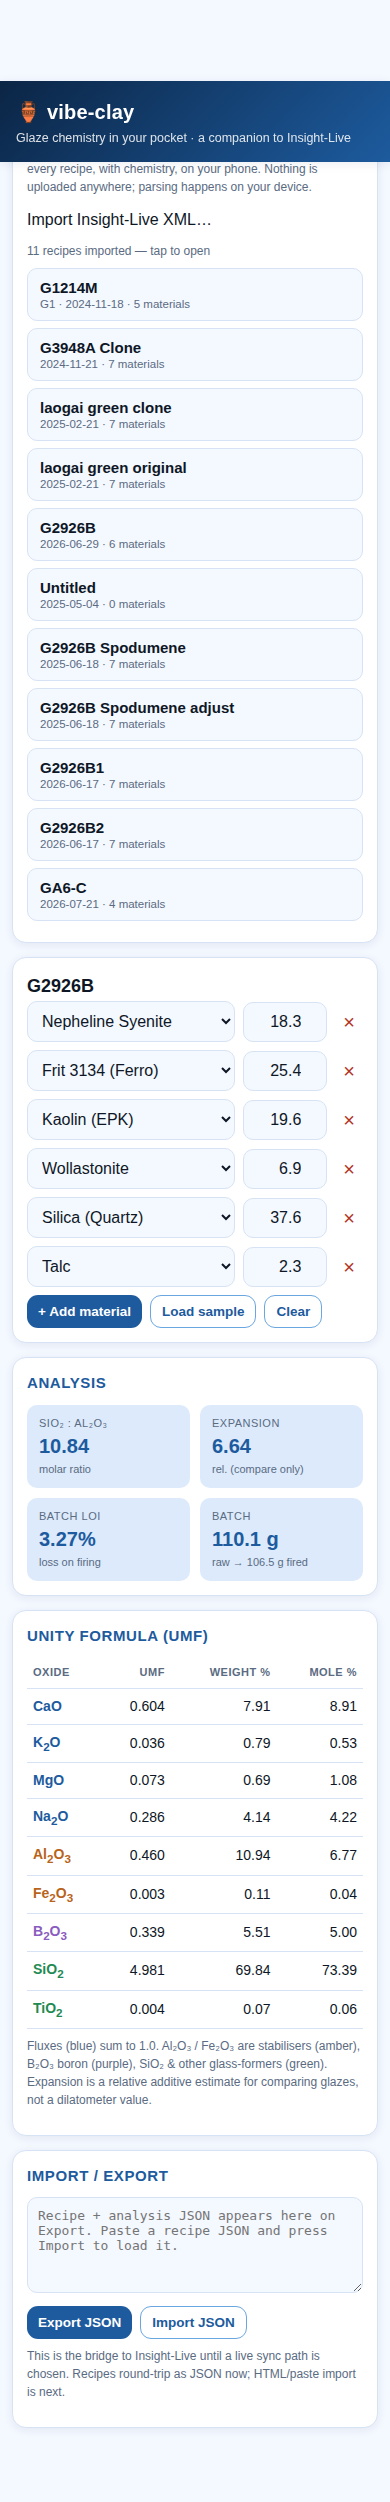
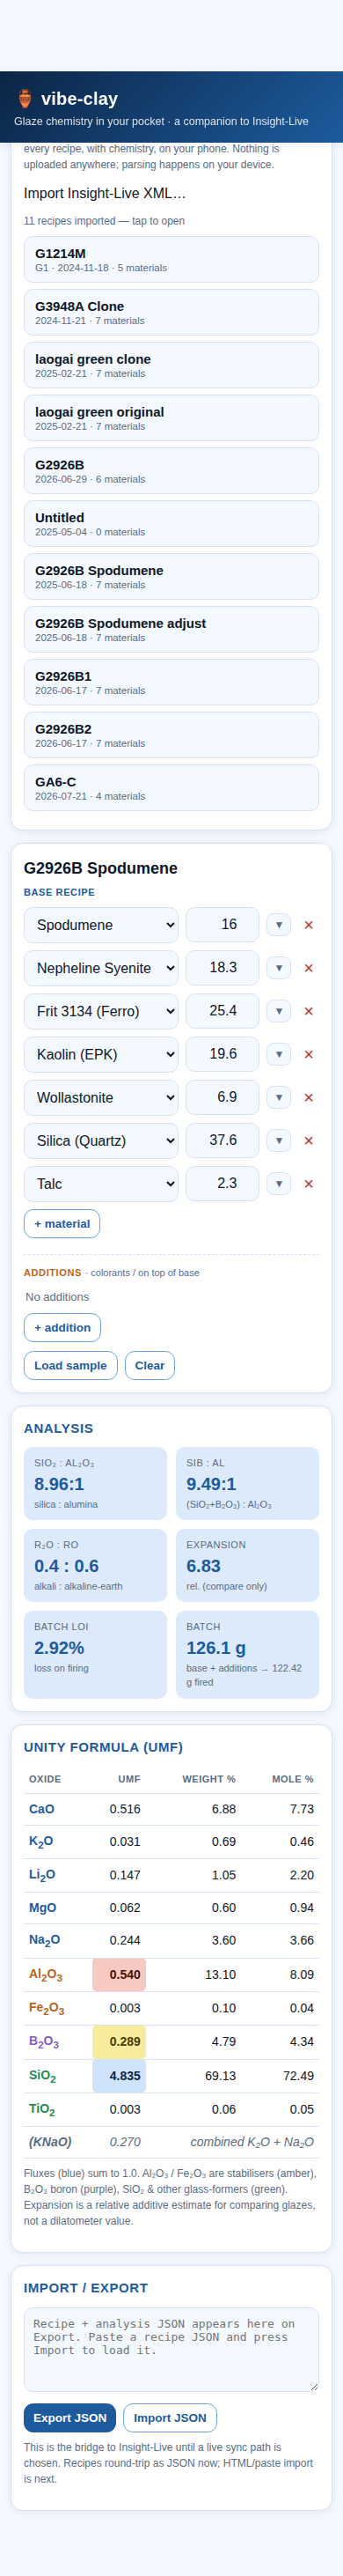
Insight-Live analysis parity: base/additions, SiB:Al + R2O:RO + KNaO, oxide highlighting
Matches the Preview-of-Recipe view from Insight-Live:
- Base recipe vs Additions (colorants on top) as separate groups with a per-line
  toggle and separate batch totals (baseGrams/additionGrams).
- New ratios: SiB:Al ((SiO2+B2O3):Al2O3), R2O:RO (alkali:alkaline-earth flux
  split), and the combined KNaO line.
- UMF table highlights the structural trio (SiO2 blue, Al2O3 red, B2O3 yellow).
- Lowered Li2O thermal-expansion coefficient (27 -> 6.7); lithium is a
  low-expansion flux, which brings the estimate in line with Insight-Live.

Validated against real Insight-Live screenshots: G2926B Spodumene matches its
UMF, KNaO (0.27) and R2O:RO (0.4:0.6) essentially exactly.

Claude-Session: https://claude.ai/code/session_01VN9AZyVo9rnhvmrXgoLfdB

diff --git a/js/app.js b/js/app.js
@@ -27,10 +27,11 @@ function loadSample() {
   state.recipe = {
     name: 'Leadless Gloss (sample)',
     lines: [
-      { material: 'Custer Feldspar (Potash)', amount: 40 },
-      { material: 'Silica (Quartz)', amount: 20 },
-      { material: 'Whiting (Calcium Carbonate)', amount: 20 },
-      { material: 'Kaolin (EPK)', amount: 20 },
+      { material: 'Custer Feldspar (Potash)', amount: 40, additive: false },
+      { material: 'Silica (Quartz)', amount: 20, additive: false },
+      { material: 'Whiting (Calcium Carbonate)', amount: 20, additive: false },
+      { material: 'Kaolin (EPK)', amount: 20, additive: false },
+      { material: 'Red Iron Oxide', amount: 2, additive: true },
     ],
   };
 }
@@ -47,53 +48,87 @@ function render() {
   renderAnalysis();
 }
 
-function renderLines() {
-  const wrap = $('#lines');
-  wrap.innerHTML = '';
-  state.recipe.lines.forEach((line, i) => {
-    const div = document.createElement('div');
-    div.className = 'row';
-    div.innerHTML = `
+function addLine(additive) {
+  state.recipe.lines.push({ material: state.db.materials[0].name, amount: 0, additive });
+  renderLines();
+  renderAnalysis();
+}
+
+function rowHtml(i) {
+  const line = state.recipe.lines[i];
+  const togTitle = line.additive ? 'Move up to base recipe' : 'Move down to additions';
+  return `<div class="row">
       <select class="mat" data-i="${i}" aria-label="Material">${materialOptions(line.material)}</select>
       <input class="amt" data-i="${i}" type="number" inputmode="decimal" min="0" step="0.1"
              value="${line.amount}" aria-label="Amount in grams" />
-      <button class="del" data-i="${i}" title="Remove" aria-label="Remove line">×</button>`;
-    wrap.appendChild(div);
-  });
+      <button class="tog" data-i="${i}" title="${togTitle}" aria-label="${togTitle}">${line.additive ? '▲' : '▼'}</button>
+      <button class="del" data-i="${i}" title="Remove" aria-label="Remove line">×</button>
+    </div>`;
+}
+
+function renderLines() {
+  const wrap = $('#lines');
+  const lines = state.recipe.lines;
+  const baseIdx = lines.map((_, i) => i).filter(i => !lines[i].additive);
+  const addIdx = lines.map((_, i) => i).filter(i => lines[i].additive);
+
+  wrap.innerHTML = `
+    <div class="grp-label">Base recipe</div>
+    ${baseIdx.map(rowHtml).join('') || '<div class="grp-empty">No base materials yet</div>'}
+    <button class="btn ghost small addbtn" data-add="base">+ material</button>
+    <div class="grp-label add">Additions <span>· colorants / on top of base</span></div>
+    ${addIdx.map(rowHtml).join('') || '<div class="grp-empty">No additions</div>'}
+    <button class="btn ghost small addbtn" data-add="add">+ addition</button>`;
 
   wrap.querySelectorAll('select.mat').forEach(el =>
     el.addEventListener('change', e => { state.recipe.lines[+e.target.dataset.i].material = e.target.value; renderAnalysis(); }));
   wrap.querySelectorAll('input.amt').forEach(el =>
     el.addEventListener('input', e => { state.recipe.lines[+e.target.dataset.i].amount = parseFloat(e.target.value) || 0; renderAnalysis(); }));
+  wrap.querySelectorAll('button.tog').forEach(el =>
+    el.addEventListener('click', e => { const l = state.recipe.lines[+e.currentTarget.dataset.i]; l.additive = !l.additive; renderLines(); renderAnalysis(); }));
   wrap.querySelectorAll('button.del').forEach(el =>
-    el.addEventListener('click', e => { state.recipe.lines.splice(+e.target.dataset.i, 1); renderLines(); renderAnalysis(); }));
+    el.addEventListener('click', e => { state.recipe.lines.splice(+e.currentTarget.dataset.i, 1); renderLines(); renderAnalysis(); }));
+  wrap.querySelectorAll('button.addbtn').forEach(el =>
+    el.addEventListener('click', e => addLine(e.currentTarget.dataset.add === 'add')));
 }
 
 function renderAnalysis() {
   const a = analyzeRecipe(state.recipe.lines, state.idx);
 
-  // Stats grid
-  const exp = a.thermalExpansion == null ? '—' : a.thermalExpansion;
-  const ratio = a.ratios.SiO2_Al2O3 == null ? '—' : a.ratios.SiO2_Al2O3;
+  // Stats grid — the ratios Insight-Live reports
+  const dash = v => (v == null ? '—' : v);
+  const siAl = a.ratios.SiO2_Al2O3;
+  const siBAl = a.ratios.SiB_Al2O3;
+  const split = a.fluxSplit ? `${a.fluxSplit.R2O.toFixed(1)} : ${a.fluxSplit.RO.toFixed(1)}` : '—';
+  const batchLabel = a.additionGrams > 0
+    ? `${a.baseGrams} + ${a.additionGrams} g`
+    : `${a.batchGrams} g`;
   $('#stats').innerHTML = `
-    ${stat('SiO₂ : Al₂O₃', ratio, 'molar ratio')}
-    ${stat('Expansion', exp, 'rel. (compare only)')}
+    ${stat('SiO₂ : Al₂O₃', siAl == null ? '—' : siAl + ':1', 'silica : alumina')}
+    ${stat('SiB : Al', siBAl == null ? '—' : siBAl + ':1', '(SiO₂+B₂O₃) : Al₂O₃')}
+    ${stat('R₂O : RO', split, 'alkali : alkaline-earth')}
+    ${stat('Expansion', dash(a.thermalExpansion), 'rel. (compare only)')}
     ${stat('Batch LOI', a.loiPct + '%', 'loss on firing')}
-    ${stat('Batch', a.batchGrams + ' g', 'raw → ' + a.firedGrams + ' g fired')}`;
+    ${stat('Batch', batchLabel, 'base + additions → ' + a.firedGrams + ' g fired')}`;
 
-  // UMF table
+  // UMF table — highlight the structural trio (SiO₂ blue, Al₂O₃ red, B₂O₃ yellow)
+  const hi = { SiO2: 'hi-si', Al2O3: 'hi-al', B2O3: 'hi-b' };
   const keys = displayOrder(Object.keys(a.oxides));
   const rows = keys.map(ox => {
     const o = a.oxides[ox];
     return `<tr class="g-${o.group}">
       <td>${fmtOxide(ox)}</td>
-      <td>${o.umf.toFixed(3)}</td>
+      <td class="${hi[ox] || ''}">${o.umf.toFixed(3)}</td>
       <td>${o.weightPct.toFixed(2)}</td>
       <td>${o.molePct.toFixed(2)}</td></tr>`;
   }).join('');
+  // KNaO combined-alkali line, shown grouped like Insight-Live
+  const kNaORow = a.ratios.KNaO != null
+    ? `<tr class="knao"><td>(KNaO)</td><td>${a.ratios.KNaO.toFixed(3)}</td><td colspan="2">combined K₂O + Na₂O</td></tr>`
+    : '';
   $('#umf').innerHTML = `
     <thead><tr><th>Oxide</th><th>UMF</th><th>Weight %</th><th>Mole %</th></tr></thead>
-    <tbody>${rows || '<tr><td colspan="4" style="text-align:center;color:var(--muted)">Add materials to see analysis</td></tr>'}</tbody>`;
+    <tbody>${rows ? rows + kNaORow : '<tr><td colspan="4" style="text-align:center;color:var(--muted)">Add materials to see analysis</td></tr>'}</tbody>`;
 
   $('#warn').innerHTML = a.unknownMaterials.length
     ? `<div class="warnbox">Unknown material(s) skipped in chemistry: ${a.unknownMaterials.map(escapeHtml).join(', ')}</div>`
@@ -152,10 +187,6 @@ function wireGlobalButtons() {
     reader.readAsText(file);
   });
   $('#recipeName').addEventListener('input', e => { state.recipe.name = e.target.value; });
-  $('#addLine').addEventListener('click', () => {
-    state.recipe.lines.push({ material: state.db.materials[0].name, amount: 0 });
-    renderLines(); renderAnalysis();
-  });
   $('#sampleBtn').addEventListener('click', () => { loadSample(); render(); });
   $('#clearBtn').addEventListener('click', () => { state.recipe = { name: 'Untitled Recipe', lines: [] }; render(); });
 

diff --git a/js/chemistry.js b/js/chemistry.js
@@ -49,7 +49,7 @@ export const OXIDE_GROUP = {
 // reading. Oxides not listed contribute ~0.
 export const EXPANSION_FACTOR = {
   SiO2: 3.8, Al2O3: 6.3, B2O3: 0.0,
-  Na2O: 39.5, K2O: 46.5, Li2O: 27.0,
+  Na2O: 39.5, K2O: 46.5, Li2O: 6.7,
   CaO: 16.3, MgO: 4.5, BaO: 20.0, SrO: 15.0, ZnO: 7.0, PbO: 10.6,
   Fe2O3: 13.3, TiO2: 8.5, ZrO2: 4.5, SnO2: 6.0, P2O5: 8.0,
 };
@@ -108,7 +108,9 @@ export function buildResolver(db) {
 export function analyzeRecipe(recipe, materialIndex, opts = {}) {
   const oxideGrams = {};     // fired grams of each oxide across the batch
   const unknownMaterials = [];
-  let batchGrams = 0;        // total raw grams batched
+  let batchGrams = 0;        // total raw grams batched (base + additions)
+  let baseGrams = 0;         // base recipe only
+  let additionGrams = 0;     // additions ("added on top") only
   let cost = 0;
   let haveAnyPrice = false;
 
@@ -116,6 +118,7 @@ export function analyzeRecipe(recipe, materialIndex, opts = {}) {
     const amount = Number(line.amount) || 0;
     if (amount <= 0) continue;
     batchGrams += amount;
+    if (line.additive) additionGrams += amount; else baseGrams += amount;
 
     const mat = materialIndex.get(line.material);
     if (!mat) { unknownMaterials.push(line.material); continue; }
@@ -165,18 +168,37 @@ export function analyzeRecipe(recipe, materialIndex, opts = {}) {
     };
   }
 
-  // Headline ratios.
+  // Headline ratios (matching what Insight-Live reports).
   const siMol = oxideMoles.SiO2 || 0;
   const alMol = oxideMoles.Al2O3 || 0;
+  const bMol = oxideMoles.B2O3 || 0;
   const siAlRatio = alMol ? round(siMol / alMol, 2) : null;
+  const siBAlRatio = alMol ? round((siMol + bMol) / alMol, 2) : null;
+
+  // R2O:RO — split the flux unity into alkali (R2O: Na2O K2O Li2O) vs alkaline
+  // earth (RO: CaO MgO BaO SrO ZnO PbO), normalised to sum to 1.0.
+  const R2O_SET = new Set(['Na2O', 'K2O', 'Li2O']);
+  let r2oMol = 0, roMol = 0;
+  for (const [ox, mol] of Object.entries(oxideMoles)) {
+    if (OXIDE_GROUP[ox] !== 'flux') continue;
+    if (R2O_SET.has(ox)) r2oMol += mol; else roMol += mol;
+  }
+  const fluxSplit = fluxMoles
+    ? { R2O: round(r2oMol / fluxMoles, 2), RO: round(roMol / fluxMoles, 2) }
+    : null;
+  // KNaO — combined K2O+Na2O flux value (Insight shows this grouped line).
+  const kNaO = fluxMoles ? round(((oxideMoles.K2O || 0) + (oxideMoles.Na2O || 0)) / fluxMoles, 2) : null;
 
   return {
     batchGrams: round(batchGrams, 2),
+    baseGrams: round(baseGrams, 2),
+    additionGrams: round(additionGrams, 2),
     firedGrams: round(totalFiredGrams, 2),
     loiPct: batchGrams ? round(((batchGrams - totalFiredGrams) / batchGrams) * 100, 2) : 0,
     fluxUnityMoles: round(fluxMoles, 5),
     oxides,
-    ratios: { SiO2_Al2O3: siAlRatio },
+    ratios: { SiO2_Al2O3: siAlRatio, SiB_Al2O3: siBAlRatio, KNaO: kNaO },
+    fluxSplit,
     thermalExpansion: estimateExpansion(oxideMoles),
     cost: haveAnyPrice ? {
       total: round(cost, 2),

diff --git a/css/styles.css b/css/styles.css
@@ -66,8 +66,19 @@ main { max-width: 720px; margin: 0 auto; padding: 14px 12px 60px; }
 .row .amt { width: 84px; text-align: right; }
 .row .del {
   border: none; background: transparent; color: var(--danger);
-  font-size: 20px; padding: 4px 8px; cursor: pointer; line-height: 1;
+  font-size: 20px; padding: 4px 6px; cursor: pointer; line-height: 1;
 }
+.row .tog {
+  border: 1px solid var(--line); background: var(--bg); color: var(--muted);
+  font-size: 12px; padding: 6px 7px; cursor: pointer; line-height: 1; border-radius: 8px;
+}
+
+.grp-label { font-size: 11px; text-transform: uppercase; letter-spacing: 0.6px; color: var(--blue-500); font-weight: 700; margin: 4px 0 8px; }
+.grp-label.add { color: var(--warn); margin-top: 14px; border-top: 1px dashed var(--line); padding-top: 12px; }
+.grp-label span { text-transform: none; letter-spacing: 0; font-weight: 400; color: var(--muted); }
+@media (prefers-color-scheme: dark) { .grp-label { color: var(--blue-300); } }
+.grp-empty { font-size: 13px; color: var(--muted); padding: 2px 2px 8px; }
+.addbtn { margin-bottom: 4px; }
 
 button.btn {
   font-size: 15px; font-weight: 600; padding: 11px 14px; border: none;
@@ -87,6 +98,12 @@ tr.g-flux td:first-child { color: var(--blue-500); font-weight: 600; }
 tr.g-stabiliser td:first-child { color: var(--warn); font-weight: 600; }
 tr.g-boron td:first-child { color: #8a5cc0; font-weight: 600; }
 tr.g-glass td:first-child { color: var(--ok); font-weight: 600; }
+/* Structural-trio highlight on the UMF value, matching Insight-Live */
+td.hi-si { background: #cfe3fb; color: #0b2545; font-weight: 700; border-radius: 5px; }
+td.hi-al { background: #f7c9c2; color: #4a0f06; font-weight: 700; border-radius: 5px; }
+td.hi-b  { background: #f7ec9c; color: #4a3d06; font-weight: 700; border-radius: 5px; }
+tr.knao td { color: var(--muted); font-style: italic; border-bottom: 1px solid var(--line); }
+tr.knao td:first-child { font-weight: 600; }
 
 .stats { display: grid; grid-template-columns: repeat(2, 1fr); gap: 10px; }
 .stat { background: var(--blue-100); border-radius: 10px; padding: 10px 12px; }

diff --git a/index.html b/index.html
@@ -27,7 +27,6 @@
       <input id="recipeName" class="title" value="Untitled Recipe" aria-label="Recipe name" />
       <div id="lines"></div>
       <div class="btnbar">
-        <button id="addLine" class="btn small">+ Add material</button>
         <button id="sampleBtn" class="btn ghost small">Load sample</button>
         <button id="clearBtn" class="btn ghost small">Clear</button>
       </div>

diff --git a/README.md b/README.md
@@ -14,12 +14,17 @@ data path opens up.
 ## What works today
 
 - **Glaze chemistry engine** (`js/chemistry.js`) — from a recipe (materials +
-  batch grams) it computes:
+  batch grams) it computes, matching what Insight-Live shows:
   - **UMF / Seger** unity formula (fluxes normalised to 1.0)
-  - oxide **weight-%** and **mole-%**
-  - **SiO₂:Al₂O₃** ratio
+  - oxide **weight-%** and **mole-%**, with SiO₂/Al₂O₃/B₂O₃ highlighted
+  - ratios: **SiO₂:Al₂O₃**, **SiB:Al** ((SiO₂+B₂O₃):Al₂O₃), **R₂O:RO**
+    (alkali:alkaline-earth), and the combined **KNaO** line
   - a relative **thermal-expansion** estimate (for comparing glazes)
   - **LOI** and **batch cost**
+  - **base recipe vs additions** (colorants on top), with separate totals —
+    the way potters actually mix from materials on hand
+  - Validated against real Insight-Live output: G2926B Spodumene matches its
+    UMF, KNaO (0.27), and R₂O:RO (0.4:0.6) essentially exactly.
 - **Mobile-first UI** (`index.html`) — recipe builder + live analysis, blue
   theme, dark-mode aware, works offline once loaded.
 - **Materials database** (`data/materials.json`) — ~30 common ceramic materials

diff --git a/skills/insight-live-navigator/SKILL.md b/skills/insight-live-navigator/SKILL.md
@@ -107,8 +107,16 @@ Key concepts to get right:
 - **UMF / Seger**: fluxes (Na₂O K₂O Li₂O CaO MgO BaO SrO ZnO PbO) are normalised
   so their moles sum to **1.0**; Al₂O₃, B₂O₃, SiO₂ etc. are expressed relative to
   that. B₂O₃ is shown on its own line (Insight convention), not in the flux total.
+- **Ratios Insight-Live reports** (all in `analysis.ratios` / `analysis.fluxSplit`):
+  `SiO2_Al2O3` (Si:Al), `SiB_Al2O3` (SiB:Al = (SiO₂+B₂O₃):Al₂O₃), `KNaO`
+  (combined K₂O+Na₂O flux value), and `fluxSplit` = R₂O:RO (alkali Na₂O/K₂O/Li₂O
+  vs alkaline-earth CaO/MgO/… , normalised to sum to 1.0, e.g. 0.4:0.6).
 - **SiO₂:Al₂O₃ ratio** is a headline number (roughly ~5–8 glossy, higher = more
   glassy/less matte, depends on flux).
+- **Base vs additions**: Insight-Live shows a base recipe plus "Additions"
+  (colorants/opacifiers on top), with separate batch totals ("110.10+11.30").
+  `analysis.baseGrams` / `analysis.additionGrams` mirror this. Both are included
+  in the unity chemistry (additions are not chemically separate).
 - **LOI**: volatiles (CO₂, chemical water) that leave on firing. Grams of oxide =
   raw grams × (oxide wt% / 100); LOI just contributes no oxide.
 - **Thermal expansion** here is a linear additive ESTIMATE (relative units), for